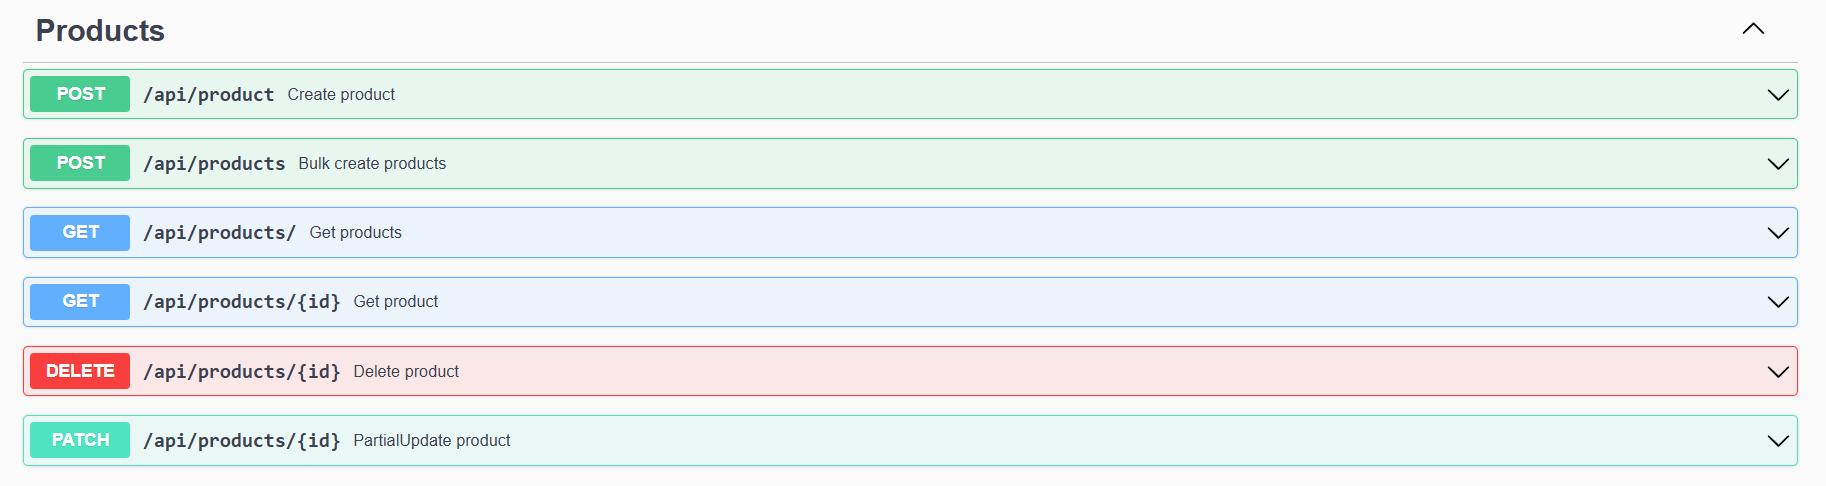
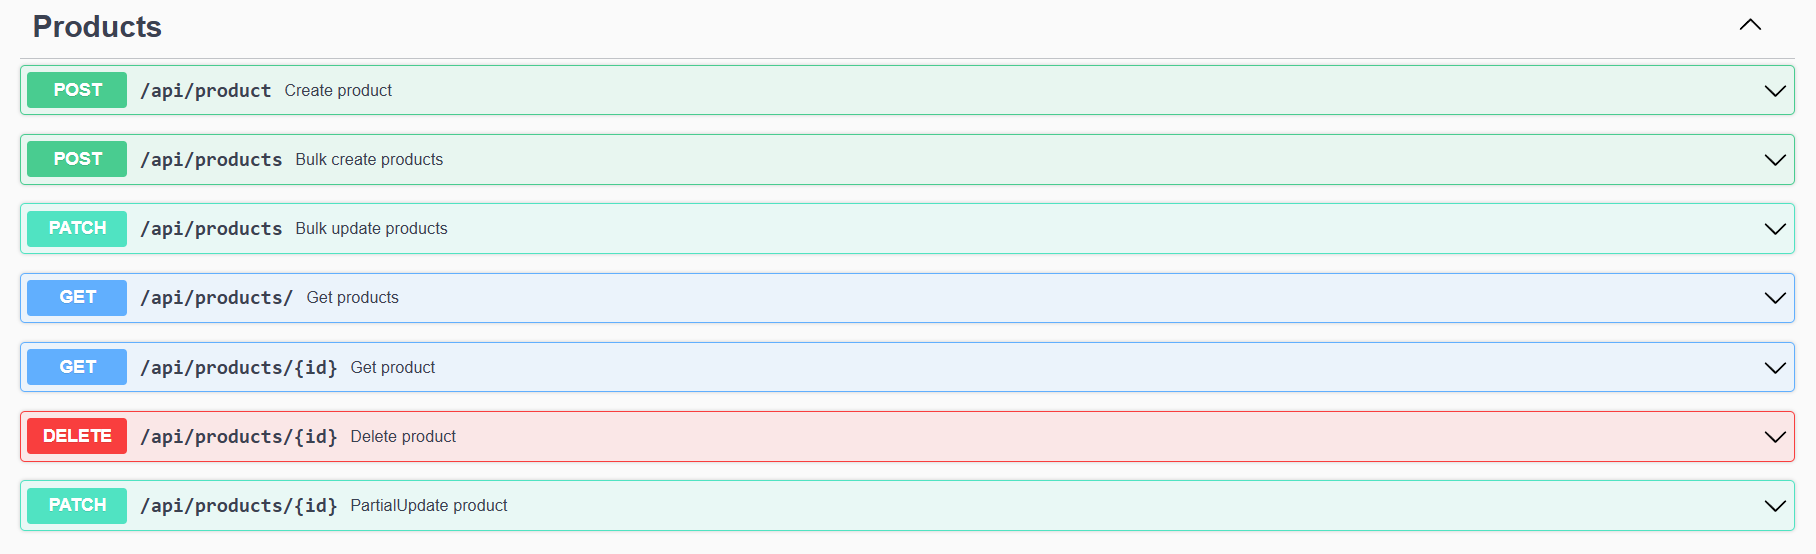
feat(repo): рефакториинг репозитория

diff --git a/internal/app/http/products/bulk_update.go b/internal/app/http/products/bulk_update.go
@@ -13,39 +13,39 @@ import (
 )
 
 type (
-	bulkCreateCommand interface {
-		BulkCreateProducts(ctx context.Context, data []productsDomain.Product) ([]productsDomain.Product, error)
+	bulkUpdateCommand interface {
+		BulkUpdateProducts(ctx context.Context, data []productsDomain.Product) ([]productsDomain.Product, error)
 	}
 
-	BulkCreateHandler struct {
+	BulkUpdateHandler struct {
 		name              string
-		bulkCreateCommand bulkCreateCommand
+		bulkUpdateCommand bulkUpdateCommand
 	}
 
-	bulkCreateRequest struct {
+	bulkUpdateRequest struct {
 		body []productsDomain.Product
 	}
 )
 
-func NewProductBulkCreateHandler(command bulkCreateCommand, name string) *BulkCreateHandler {
-	return &BulkCreateHandler{
+func NewProductBulkUpdateHandler(command bulkUpdateCommand, name string) *BulkUpdateHandler {
+	return &BulkUpdateHandler{
 		name:              name,
-		bulkCreateCommand: command,
+		bulkUpdateCommand: command,
 	}
 }
 
-// @Summary		Bulk create products
-// @Description	Bulk create products
+// @Summary		Bulk update products
+// @Description	Bulk update products
 // @Tags			Products
 // @Produce		json
-// @Success		201	array		productsDomain.Product	"Products"
+// @Success		200	array		productsDomain.Product	"Products"
 // @Failure		400	{string}	string					"Bad Request"
 // @Failure		500	{string}	string					"Internal Server Error"
-// @Router			/api/products [post]
-func (h *BulkCreateHandler) ServeHTTP(w http.ResponseWriter, r *http.Request) {
+// @Router			/api/products [patch]
+func (h *BulkUpdateHandler) ServeHTTP(w http.ResponseWriter, r *http.Request) {
 	var (
 		ctx         = r.Context()
-		requestData *bulkCreateRequest
+		requestData *bulkUpdateRequest
 		err         error
 	)
 
@@ -71,7 +71,7 @@ func (h *BulkCreateHandler) ServeHTTP(w http.ResponseWriter, r *http.Request) {
 		return
 	}
 
-	responseRawBody, err := h.bulkCreateCommand.BulkCreateProducts(ctx, requestData.body)
+	responseRawBody, err := h.bulkUpdateCommand.BulkUpdateProducts(ctx, requestData.body)
 	if err != nil {
 		httpResponses.GetResponse(
 			w,
@@ -99,13 +99,13 @@ func (h *BulkCreateHandler) ServeHTTP(w http.ResponseWriter, r *http.Request) {
 		w,
 		h.name,
 		nil,
-		http.StatusCreated,
+		http.StatusOK,
 		&responseBody,
 	)
 }
 
-func (h *BulkCreateHandler) getRequestData(r *http.Request) (requestData *bulkCreateRequest, err error) {
-	requestData = &bulkCreateRequest{}
+func (h *BulkUpdateHandler) getRequestData(r *http.Request) (requestData *bulkUpdateRequest, err error) {
+	requestData = &bulkUpdateRequest{}
 	body, err := io.ReadAll(r.Body)
 	if err != nil {
 		log.Println(err)
@@ -128,6 +128,6 @@ func (h *BulkCreateHandler) getRequestData(r *http.Request) (requestData *bulkCr
 	return
 }
 
-func (h *BulkCreateHandler) validateRequestData(requestData *bulkCreateRequest) error {
+func (h *BulkUpdateHandler) validateRequestData(requestData *bulkUpdateRequest) error {
 	return validator.New().Struct(requestData)
 }

diff --git a/api/docs.go b/api/docs.go
@@ -59,9 +59,45 @@ const docTemplate = `{
                 "summary": "Bulk create products",
                 "responses": {
                     "201": {
-                        "description": "Created",
+                        "description": "Products",
                         "schema": {
-                            "type": "int"
+                            "type": "array",
+                            "items": {
+                                "$ref": "#/definitions/go_template_project_internal_domain_products.Product"
+                            }
+                        }
+                    },
+                    "400": {
+                        "description": "Bad Request",
+                        "schema": {
+                            "type": "string"
+                        }
+                    },
+                    "500": {
+                        "description": "Internal Server Error",
+                        "schema": {
+                            "type": "string"
+                        }
+                    }
+                }
+            },
+            "patch": {
+                "description": "Bulk update products",
+                "produces": [
+                    "application/json"
+                ],
+                "tags": [
+                    "Products"
+                ],
+                "summary": "Bulk update products",
+                "responses": {
+                    "200": {
+                        "description": "Products",
+                        "schema": {
+                            "type": "array",
+                            "items": {
+                                "$ref": "#/definitions/go_template_project_internal_domain_products.Product"
+                            }
                         }
                     },
                     "400": {

diff --git a/internal/services/http/products/bulk_update.go b/internal/services/http/products/bulk_update.go
@@ -6,11 +6,12 @@ import (
 	"log"
 )
 
-func (h Handler) BulkCreateProducts(
+func (h Handler) BulkUpdateProducts(
 	ctx context.Context,
 	data []productsDomain.Product,
 ) ([]productsDomain.Product, error) {
-	products, err := h.repository.BulkCreateProducts(ctx, data)
+	updateFields := []string{"name", "title"}
+	products, err := h.repository.BulkUpdateProducts(ctx, updateFields, data)
 	if err != nil {
 		log.Println(err)
 		return nil, err

diff --git a/internal/services/http/products/ports.go b/internal/services/http/products/ports.go
@@ -30,4 +30,9 @@ type repository interface {
 		ctx context.Context,
 		data []productsDomain.Product,
 	) ([]productsDomain.Product, error)
+	BulkUpdateProducts(
+		ctx context.Context,
+		updateFields []string,
+		data []productsDomain.Product,
+	) ([]productsDomain.Product, error)
 }

diff --git a/internal/app/http/products/routes.go b/internal/app/http/products/routes.go
@@ -46,6 +46,15 @@ func RegisterRoutes(
 		),
 	)
 
+	// Bulk update products
+	mux.Handle(
+		"PATCH /api/products",
+		NewProductBulkUpdateHandler(
+			command.New(repo),
+			"PATCH /api/products",
+		),
+	)
+
 	// Partial update product
 	mux.Handle(
 		"PATCH /api/products/{id}",
